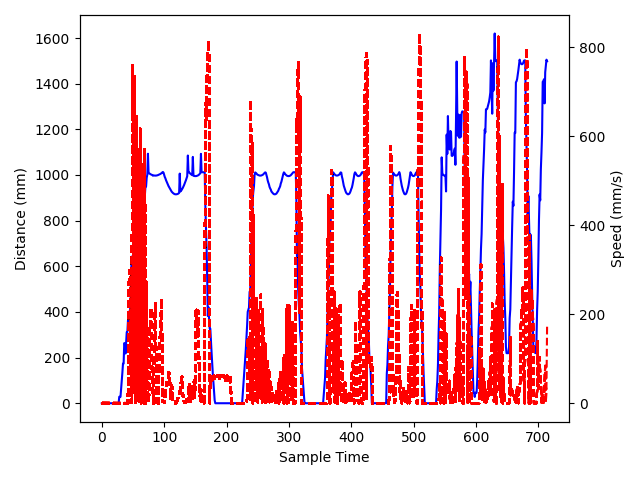
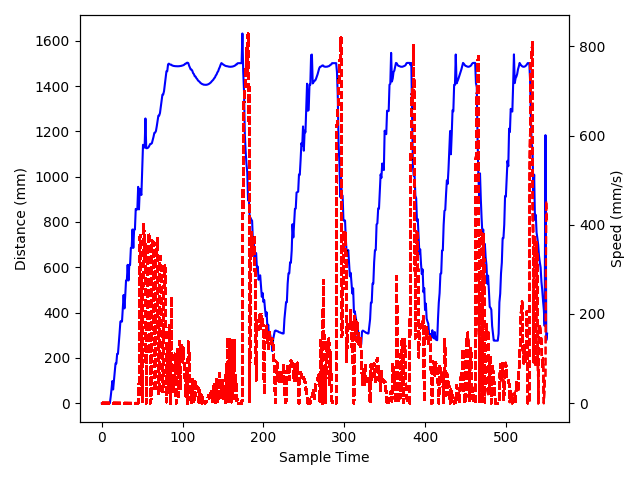
update

diff --git a/IntegratedSystem/0708_RealtimeNoThreadConveyor.py b/IntegratedSystem/0708_RealtimeNoThreadConveyor.py
@@ -226,7 +226,7 @@ def on_reset_alarm():
 D = 0
 VrPaper = 1000
 Vr = 1500
-Vr_PFL = 1500
+Vr_PFL = 400
 Vh_max = 1600
 Vh_min = 0
 Tr = 0.1
@@ -313,7 +313,7 @@ end_time = datetime.now()
 elapsed_time = 0
 milliseconds = 0
 #calibration = 1200
-write_file = "Productivity-"+str(start)+".csv"
+write_file = "400-Productivity-"+str(start)+".csv"
 mode_collab = 0
 
 #SSM original data

diff --git a/IntegratedSystem/0708_RealtimeNoThreadConveyor-previous.py b/IntegratedSystem/0708_RealtimeNoThreadConveyor-previous.py
@@ -313,7 +313,7 @@ end_time = datetime.now()
 elapsed_time = 0
 milliseconds = 0
 #calibration = 1200
-write_file = "PreviousProductivity-"+str(start)+".csv"
+write_file = "PreviousProductivity-2-"+str(start)+".csv"
 mode_collab = 0
 
 #SSM original data
